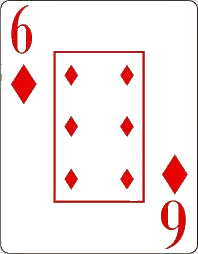
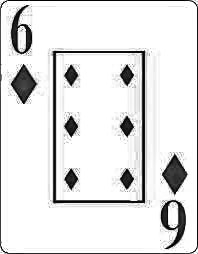
troca cartas 2

Changed region(s): [[0.2424, 0.1654, 0.7576, 0.8268], [0.0, 0.0, 1.0, 0.9921], [0.0303, 0.5787, 1.0, 1.0]]

diff --git a/BlackJack/Form1.Designer.cs b/BlackJack/Form1.Designer.cs
@@ -32,23 +32,26 @@ namespace BlackJack
             System.ComponentModel.ComponentResourceManager resources = new System.ComponentModel.ComponentResourceManager(typeof(Form_jogo));
             this.btn_jogar_1 = new System.Windows.Forms.Button();
             this.btn_reiniciar = new System.Windows.Forms.Button();
-            this.pictureBox1 = new System.Windows.Forms.PictureBox();
             this.lbl_Pontos_A = new System.Windows.Forms.Label();
-            this.lbl_legenda = new System.Windows.Forms.Label();
             this.btn_parar_1 = new System.Windows.Forms.Button();
             this.btn_parar_2 = new System.Windows.Forms.Button();
             this.pictureBox2 = new System.Windows.Forms.PictureBox();
             this.btn_jogar_2 = new System.Windows.Forms.Button();
             this.lbl_Pontos_B = new System.Windows.Forms.Label();
-            this.label1 = new System.Windows.Forms.Label();
             this.lbl_Resultado = new System.Windows.Forms.Label();
-            ((System.ComponentModel.ISupportInitialize)(this.pictureBox1)).BeginInit();
+            this.lablbl_Pontos_C = new System.Windows.Forms.Label();
+            this.btn_parar_3 = new System.Windows.Forms.Button();
+            this.btn_jogar_3 = new System.Windows.Forms.Button();
+            this.pictureBox4 = new System.Windows.Forms.PictureBox();
+            this.pictureBox5 = new System.Windows.Forms.PictureBox();
             ((System.ComponentModel.ISupportInitialize)(this.pictureBox2)).BeginInit();
+            ((System.ComponentModel.ISupportInitialize)(this.pictureBox4)).BeginInit();
+            ((System.ComponentModel.ISupportInitialize)(this.pictureBox5)).BeginInit();
             this.SuspendLayout();
             // 
             // btn_jogar_1
             // 
-            this.btn_jogar_1.Location = new System.Drawing.Point(26, 452);
+            this.btn_jogar_1.Location = new System.Drawing.Point(17, 396);
             this.btn_jogar_1.Name = "btn_jogar_1";
             this.btn_jogar_1.Size = new System.Drawing.Size(110, 29);
             this.btn_jogar_1.TabIndex = 0;
@@ -58,47 +61,27 @@ namespace BlackJack
             // 
             // btn_reiniciar
             // 
-            this.btn_reiniciar.Location = new System.Drawing.Point(333, 12);
+            this.btn_reiniciar.Location = new System.Drawing.Point(452, 12);
             this.btn_reiniciar.Name = "btn_reiniciar";
-            this.btn_reiniciar.Size = new System.Drawing.Size(120, 28);
+            this.btn_reiniciar.Size = new System.Drawing.Size(141, 33);
             this.btn_reiniciar.TabIndex = 1;
             this.btn_reiniciar.Text = "Reiniciar";
             this.btn_reiniciar.UseVisualStyleBackColor = true;
             this.btn_reiniciar.Click += new System.EventHandler(this.button2_Click);
             // 
-            // pictureBox1
-            // 
-            this.pictureBox1.Image = global::BlackJack.Properties.Resources._0;
-            this.pictureBox1.Location = new System.Drawing.Point(26, 83);
-            this.pictureBox1.Name = "pictureBox1";
-            this.pictureBox1.Size = new System.Drawing.Size(246, 353);
-            this.pictureBox1.SizeMode = System.Windows.Forms.PictureBoxSizeMode.StretchImage;
-            this.pictureBox1.TabIndex = 2;
-            this.pictureBox1.TabStop = false;
-            // 
             // lbl_Pontos_A
             // 
             this.lbl_Pontos_A.AutoSize = true;
             this.lbl_Pontos_A.Font = new System.Drawing.Font("Microsoft Sans Serif", 15.75F, System.Drawing.FontStyle.Bold, System.Drawing.GraphicsUnit.Point);
-            this.lbl_Pontos_A.Location = new System.Drawing.Point(351, 182);
+            this.lbl_Pontos_A.Location = new System.Drawing.Point(133, 368);
             this.lbl_Pontos_A.Name = "lbl_Pontos_A";
             this.lbl_Pontos_A.Size = new System.Drawing.Size(25, 25);
             this.lbl_Pontos_A.TabIndex = 3;
             this.lbl_Pontos_A.Text = "0";
             // 
-            // lbl_legenda
-            // 
-            this.lbl_legenda.AutoSize = true;
-            this.lbl_legenda.Font = new System.Drawing.Font("Segoe UI", 12F, System.Drawing.FontStyle.Regular, System.Drawing.GraphicsUnit.Point);
-            this.lbl_legenda.Location = new System.Drawing.Point(363, 154);
-            this.lbl_legenda.Name = "lbl_legenda";
-            this.lbl_legenda.Size = new System.Drawing.Size(60, 21);
-            this.lbl_legenda.TabIndex = 4;
-            this.lbl_legenda.Text = "Pontos:";
-            // 
             // btn_parar_1
             // 
-            this.btn_parar_1.Location = new System.Drawing.Point(162, 452);
+            this.btn_parar_1.Location = new System.Drawing.Point(168, 396);
             this.btn_parar_1.Name = "btn_parar_1";
             this.btn_parar_1.Size = new System.Drawing.Size(110, 29);
             this.btn_parar_1.TabIndex = 5;
@@ -108,7 +91,7 @@ namespace BlackJack
             // 
             // btn_parar_2
             // 
-            this.btn_parar_2.Location = new System.Drawing.Point(656, 452);
+            this.btn_parar_2.Location = new System.Drawing.Point(570, 396);
             this.btn_parar_2.Name = "btn_parar_2";
             this.btn_parar_2.Size = new System.Drawing.Size(110, 29);
             this.btn_parar_2.TabIndex = 8;
@@ -119,16 +102,16 @@ namespace BlackJack
             // pictureBox2
             // 
             this.pictureBox2.Image = global::BlackJack.Properties.Resources._0;
-            this.pictureBox2.Location = new System.Drawing.Point(520, 83);
+            this.pictureBox2.Location = new System.Drawing.Point(410, 107);
             this.pictureBox2.Name = "pictureBox2";
-            this.pictureBox2.Size = new System.Drawing.Size(246, 353);
+            this.pictureBox2.Size = new System.Drawing.Size(230, 233);
             this.pictureBox2.SizeMode = System.Windows.Forms.PictureBoxSizeMode.StretchImage;
             this.pictureBox2.TabIndex = 7;
             this.pictureBox2.TabStop = false;
             // 
             // btn_jogar_2
             // 
-            this.btn_jogar_2.Location = new System.Drawing.Point(520, 452);
+            this.btn_jogar_2.Location = new System.Drawing.Point(410, 396);
             this.btn_jogar_2.Name = "btn_jogar_2";
             this.btn_jogar_2.Size = new System.Drawing.Size(110, 29);
             this.btn_jogar_2.TabIndex = 6;
@@ -140,20 +123,11 @@ namespace BlackJack
             // 
             this.lbl_Pontos_B.AutoSize = true;
             this.lbl_Pontos_B.Font = new System.Drawing.Font("Microsoft Sans Serif", 15.75F, System.Drawing.FontStyle.Bold, System.Drawing.GraphicsUnit.Point);
-            this.lbl_Pontos_B.Location = new System.Drawing.Point(407, 182);
+            this.lbl_Pontos_B.Location = new System.Drawing.Point(526, 358);
             this.lbl_Pontos_B.Name = "lbl_Pontos_B";
             this.lbl_Pontos_B.Size = new System.Drawing.Size(25, 25);
             this.lbl_Pontos_B.TabIndex = 9;
             this.lbl_Pontos_B.Text = "0";
-            // 
-            // label1
-            // 
-            this.label1.AutoSize = true;
-            this.label1.Location = new System.Drawing.Point(388, 186);
-            this.label1.Name = "label1";
-            this.label1.Size = new System.Drawing.Size(13, 15);
-            this.label1.TabIndex = 10;
-            this.label1.Text = "x";
             // 
             // lbl_Resultado
             // 
@@ -164,21 +138,74 @@ namespace BlackJack
             this.lbl_Resultado.Size = new System.Drawing.Size(0, 21);
             this.lbl_Resultado.TabIndex = 11;
             // 
+            // lablbl_Pontos_C
+            // 
+            this.lablbl_Pontos_C.AutoSize = true;
+            this.lablbl_Pontos_C.Font = new System.Drawing.Font("Microsoft Sans Serif", 15.75F, System.Drawing.FontStyle.Bold, System.Drawing.GraphicsUnit.Point);
+            this.lablbl_Pontos_C.Location = new System.Drawing.Point(860, 360);
+            this.lablbl_Pontos_C.Name = "lablbl_Pontos_C";
+            this.lablbl_Pontos_C.Size = new System.Drawing.Size(25, 25);
+            this.lablbl_Pontos_C.TabIndex = 13;
+            this.lablbl_Pontos_C.Text = "0";
+            this.lablbl_Pontos_C.Click += new System.EventHandler(this.label2_Click);
+            // 
+            // btn_parar_3
+            // 
+            this.btn_parar_3.Location = new System.Drawing.Point(886, 396);
+            this.btn_parar_3.Name = "btn_parar_3";
+            this.btn_parar_3.Size = new System.Drawing.Size(110, 29);
+            this.btn_parar_3.TabIndex = 15;
+            this.btn_parar_3.Text = "Parar";
+            this.btn_parar_3.UseVisualStyleBackColor = true;
+            this.btn_parar_3.Click += new System.EventHandler(this.btn_parar_3_Click);
+            // 
+            // btn_jogar_3
+            // 
+            this.btn_jogar_3.Location = new System.Drawing.Point(743, 396);
+            this.btn_jogar_3.Name = "btn_jogar_3";
+            this.btn_jogar_3.Size = new System.Drawing.Size(110, 29);
+            this.btn_jogar_3.TabIndex = 14;
+            this.btn_jogar_3.Text = "Jogar";
+            this.btn_jogar_3.UseVisualStyleBackColor = true;
+            this.btn_jogar_3.Click += new System.EventHandler(this.button2_Click_1);
+            // 
+            // pictureBox4
+            // 
+            this.pictureBox4.Image = global::BlackJack.Properties.Resources._0;
+            this.pictureBox4.Location = new System.Drawing.Point(766, 107);
+            this.pictureBox4.Name = "pictureBox4";
+            this.pictureBox4.Size = new System.Drawing.Size(230, 233);
+            this.pictureBox4.SizeMode = System.Windows.Forms.PictureBoxSizeMode.StretchImage;
+            this.pictureBox4.TabIndex = 16;
+            this.pictureBox4.TabStop = false;
+            // 
+            // pictureBox5
+            // 
+            this.pictureBox5.Image = global::BlackJack.Properties.Resources._0;
+            this.pictureBox5.Location = new System.Drawing.Point(26, 107);
+            this.pictureBox5.Name = "pictureBox5";
+            this.pictureBox5.Size = new System.Drawing.Size(230, 233);
+            this.pictureBox5.SizeMode = System.Windows.Forms.PictureBoxSizeMode.StretchImage;
+            this.pictureBox5.TabIndex = 17;
+            this.pictureBox5.TabStop = false;
+            // 
             // Form_jogo
             // 
             this.AutoScaleDimensions = new System.Drawing.SizeF(7F, 15F);
             this.AutoScaleMode = System.Windows.Forms.AutoScaleMode.Font;
-            this.ClientSize = new System.Drawing.Size(782, 502);
+            this.ClientSize = new System.Drawing.Size(1023, 510);
+            this.Controls.Add(this.pictureBox5);
+            this.Controls.Add(this.pictureBox4);
+            this.Controls.Add(this.btn_parar_3);
+            this.Controls.Add(this.btn_jogar_3);
+            this.Controls.Add(this.lablbl_Pontos_C);
             this.Controls.Add(this.lbl_Resultado);
-            this.Controls.Add(this.label1);
             this.Controls.Add(this.lbl_Pontos_B);
             this.Controls.Add(this.btn_parar_2);
             this.Controls.Add(this.pictureBox2);
             this.Controls.Add(this.btn_jogar_2);
             this.Controls.Add(this.btn_parar_1);
-            this.Controls.Add(this.lbl_legenda);
             this.Controls.Add(this.lbl_Pontos_A);
-            this.Controls.Add(this.pictureBox1);
             this.Controls.Add(this.btn_reiniciar);
             this.Controls.Add(this.btn_jogar_1);
             this.Icon = ((System.Drawing.Icon)(resources.GetObject("$this.Icon")));
@@ -187,8 +214,10 @@ namespace BlackJack
             this.Name = "Form_jogo";
             this.SizeGripStyle = System.Windows.Forms.SizeGripStyle.Show;
             this.Text = "Black Jack (Versão1.0)";
-            ((System.ComponentModel.ISupportInitialize)(this.pictureBox1)).EndInit();
+            this.Load += new System.EventHandler(this.Form_jogo_Load);
             ((System.ComponentModel.ISupportInitialize)(this.pictureBox2)).EndInit();
+            ((System.ComponentModel.ISupportInitialize)(this.pictureBox4)).EndInit();
+            ((System.ComponentModel.ISupportInitialize)(this.pictureBox5)).EndInit();
             this.ResumeLayout(false);
             this.PerformLayout();
 
@@ -198,16 +227,19 @@ namespace BlackJack
 
         private System.Windows.Forms.Button btn_jogar_1;
         private System.Windows.Forms.Button btn_reiniciar;
-        private System.Windows.Forms.PictureBox pictureBox1;
         private System.Windows.Forms.Label lbl_Pontos_A;
-        private System.Windows.Forms.Label lbl_legenda;
         private System.Windows.Forms.Button btn_parar_1;
         private System.Windows.Forms.Button btn_parar_2;
         private System.Windows.Forms.PictureBox pictureBox2;
         private System.Windows.Forms.Button btn_jogar_2;
         private System.Windows.Forms.Label lbl_Pontos_B;
-        private System.Windows.Forms.Label label1;
         private System.Windows.Forms.Label lbl_Resultado;
+        private System.Windows.Forms.Label lablbl_Pontos_C;
+        private System.Windows.Forms.Button btn_parar_3;
+        private System.Windows.Forms.Button button2;
+        private System.Windows.Forms.Button btn_jogar_3;
+        private System.Windows.Forms.PictureBox pictureBox4;
+        private System.Windows.Forms.PictureBox pictureBox5;
     }
 }
 

diff --git a/BlackJack/Form1.cs b/BlackJack/Form1.cs
@@ -18,10 +18,13 @@ namespace BlackJack
             btn_reiniciar.Enabled = false;
             btn_jogar_2.Enabled = false;
             btn_parar_2.Enabled = false;
+            btn_parar_3.Enabled = false;
+            btn_jogar_3.Enabled = false;
         }
 
         int pontos_A = 0;
         int pontos_B = 0;
+        int pontos_C = 0;
 
         public void resultado()
         {
@@ -39,13 +42,16 @@ namespace BlackJack
 
 
             if (pontos_A > pontos_B && pontos_A <= 21)
-                lbl_Resultado.Text = "Jogador 1 GANHOU!";
+                lbl_Resultado.Text = "1 GANHOU!";
             else
                 if (pontos_A < pontos_B && pontos_B <= 21)
-                lbl_Resultado.Text = "Jogador 2 GANHOU!";
+                lbl_Resultado.Text = "2 GANHOU!";
             else
                     if (pontos_A <= 21 && pontos_B <= 21)
                 lbl_Resultado.Text = "EMPATE";
+            else
+                if (pontos_B > pontos_C && pontos_A <= 21)
+                lbl_Resultado.Text = "SEM VENCEDOR.";
             else
                 lbl_Resultado.Text = "SEM VENCEDOR.";
 
@@ -141,7 +147,7 @@ namespace BlackJack
                 lbl_Pontos_B.Text = Convert.ToString(pontos_B);
                 if (pontos_B == 21)
                 {
-                    //lbl_Resultado.Text = "GANHOU!!!";
+                    //lbl_Resultado.Text = "";
                     btn_jogar_2.Enabled = false;
                     btn_reiniciar.Enabled = true;
                     resultado();
@@ -176,7 +182,70 @@ namespace BlackJack
             btn_jogar_2.Enabled = false;
             btn_parar_2.Enabled = false;
             btn_reiniciar.Enabled = true;
+            
+        }
+
+        private void button2_Click_1(object sender, EventArgs e)
+        {
+            private void btn_jogar_2_Click(object sender, EventArgs e)
+            {
+                //  ESCOLHER AS CARTAS
+                Jogada(pictureBox2, 2);
+
+                if (pontos_B <= 21)
+                {   // JOGANDO
+                    lbl_Pontos_B.Text = Convert.ToString(pontos_B);
+                    if (pontos_B == 21)
+                    {
+                        //lbl_Resultado.Text = "";
+                        btn_jogar_2.Enabled = false;
+                        btn_reiniciar.Enabled = true;
+                        resultado();
+                    }
+                }
+                else
+                {   // PARTIDA PERDIDA
+                    lbl_Pontos_B.Text = Convert.ToString(pontos_B);
+                    //lbl_Resultado.Text = "PERDEU!!!! ";
+
+                    btn_jogar_2.Enabled = false;
+                    btn_parar_2.Enabled = false;
+
+                    btn_jogar_2.Enabled = false;
+                    btn_parar_2.Enabled = false;
+
+                    resultado();
+                    btn_reiniciar.Enabled = true;
+                }
+            }
+        }
+
+        private void btn_parar_3_Click(object sender, EventArgs e)
+        {
+            btn_jogar_2.Enabled = false;
+            btn_parar_2.Enabled = false;
+            btn_reiniciar.Enabled = true;
+
+
+            private void label2_Click(object sender, EventArgs e)
+        {
+            btn_jogar_1.Enabled = false;
+            btn_parar_1.Enabled = false;
+            btn_jogar_2.Enabled = false;
+            btn_parar_2.Enabled = false;
+            btn_jogar_3.Enabled = true;
+            btn_parar_3.Enabled = true;
             resultado();
+        }
+
+        private void Form_jogo_Load(object sender, EventArgs e)
+        {
+
+        }
+
+        private void label1_Click(object sender, EventArgs e)
+        {
+
         }
     }
 

diff --git a/BlackJack/Form2.Designer.cs b/BlackJack/Form2.Designer.cs
@@ -38,10 +38,11 @@ namespace BlackJack
             // 
             // pictureBox1
             // 
+            this.pictureBox1.BorderStyle = System.Windows.Forms.BorderStyle.Fixed3D;
             this.pictureBox1.Image = global::BlackJack.Properties.Resources._0;
-            this.pictureBox1.Location = new System.Drawing.Point(0, 0);
+            this.pictureBox1.Location = new System.Drawing.Point(0, 12);
             this.pictureBox1.Name = "pictureBox1";
-            this.pictureBox1.Size = new System.Drawing.Size(344, 454);
+            this.pictureBox1.Size = new System.Drawing.Size(351, 391);
             this.pictureBox1.SizeMode = System.Windows.Forms.PictureBoxSizeMode.StretchImage;
             this.pictureBox1.TabIndex = 0;
             this.pictureBox1.TabStop = false;
@@ -49,16 +50,17 @@ namespace BlackJack
             // label1
             // 
             this.label1.AutoSize = true;
-            this.label1.Font = new System.Drawing.Font("Showcard Gothic", 12F, System.Drawing.FontStyle.Bold, System.Drawing.GraphicsUnit.Point);
+            this.label1.Font = new System.Drawing.Font("Microsoft Sans Serif", 12F, System.Drawing.FontStyle.Bold, System.Drawing.GraphicsUnit.Point);
             this.label1.Location = new System.Drawing.Point(102, 377);
             this.label1.Name = "label1";
-            this.label1.Size = new System.Drawing.Size(153, 20);
+            this.label1.Size = new System.Drawing.Size(164, 20);
             this.label1.TabIndex = 1;
             this.label1.Text = "JOGO DE DUPLAS";
             this.label1.Click += new System.EventHandler(this.label1_Click);
             // 
             // btn_Iniciar
             // 
+            this.btn_Iniciar.ForeColor = System.Drawing.SystemColors.Control;
             this.btn_Iniciar.Image = global::BlackJack.Properties.Resources.background_min;
             this.btn_Iniciar.Location = new System.Drawing.Point(102, 409);
             this.btn_Iniciar.Name = "btn_Iniciar";
